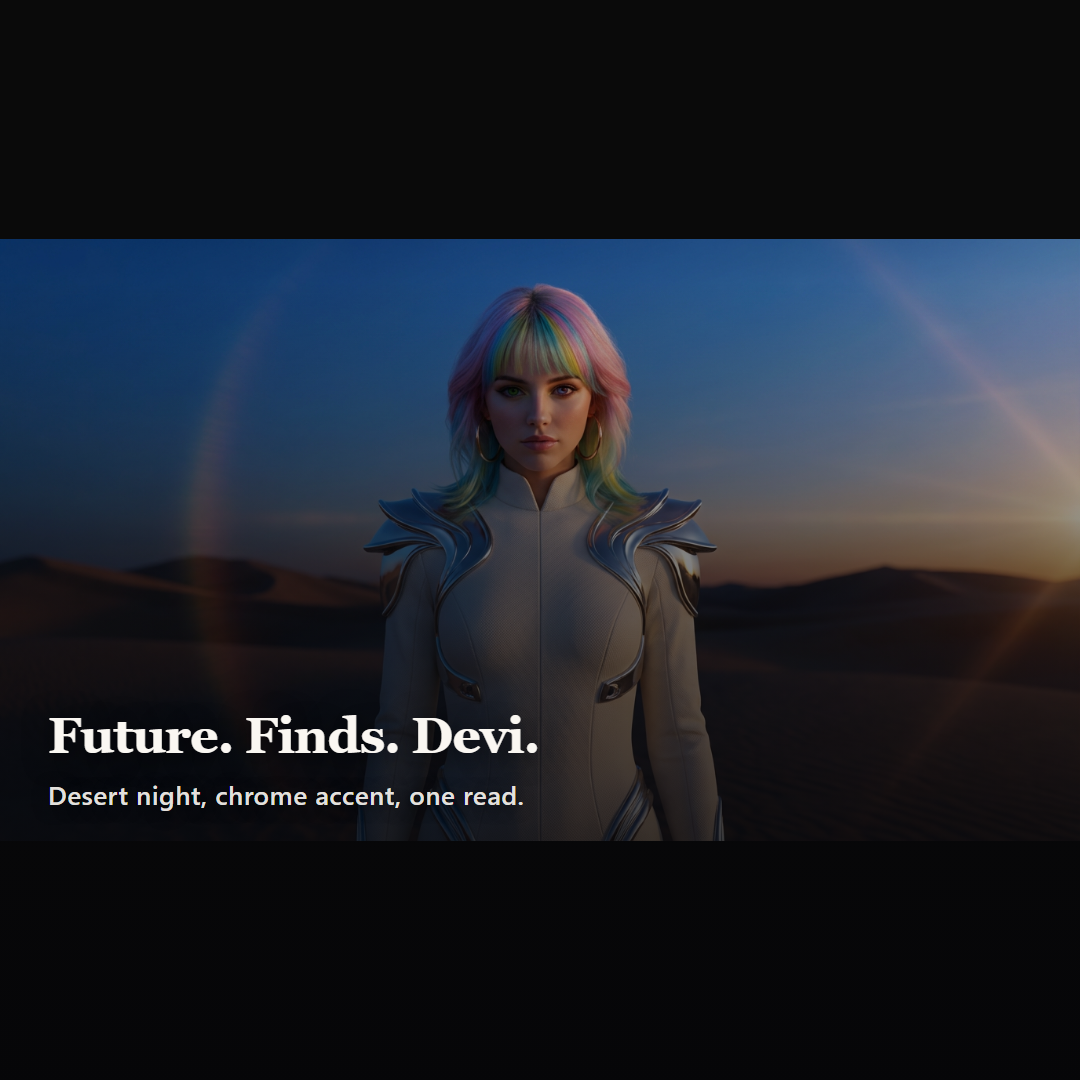
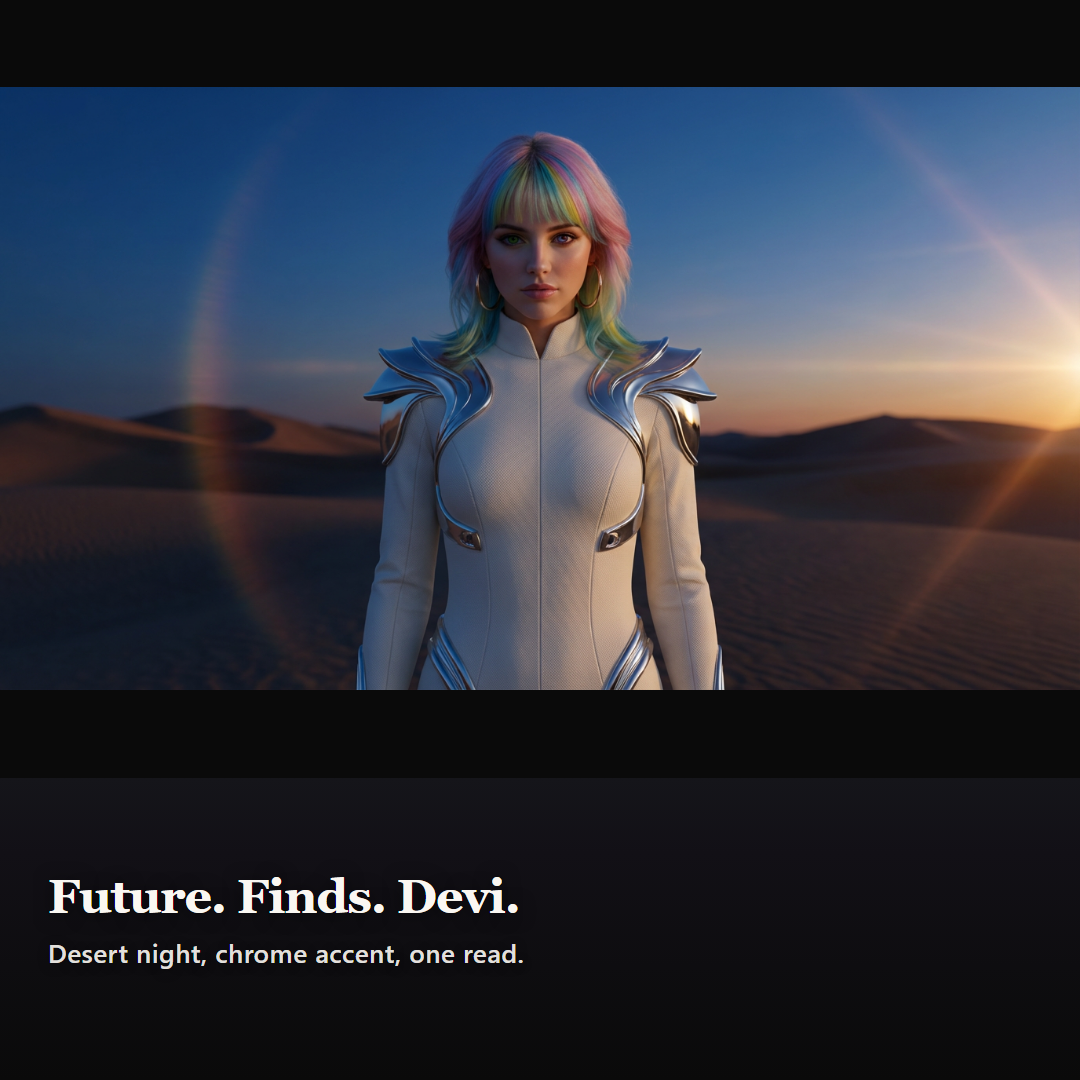
fix(devi-remotion): split image band + type strip so full photo fits (contain, no cover)
Made-with: Cursor

diff --git a/devi-remotion/src/DeviFeedImageCaptionSquare.tsx b/devi-remotion/src/DeviFeedImageCaptionSquare.tsx
@@ -14,11 +14,8 @@ export type DeviFeedImageCaptionSquareProps = {
 };
 
 /**
- * Feed still with full source frame (object-fit contain — no body crop) + editorial type.
- * Used for **1:1** (`DeviFeedImageCaptionSquare`) and **4:5** (`DeviFeedImageCaptionFeed4x5`) Stills.
- *
- * Copy is **not** flush to the frame edge: Buffer/IG often preview with a zoomed/cropped viewport;
- * we anchor type in a **safe band** (large inset from bottom/top).
+ * Feed still: photo **contained** in its band + type in a **separate** strip (no full-bleed overlap).
+ * Used for **1:1** and **4:5** Stills so the full image and all copy stay visible (“zoomed out” vs cover).
  */
 export const DeviFeedImageCaptionSquare: React.FC<
   DeviFeedImageCaptionSquareProps
@@ -27,86 +24,108 @@ export const DeviFeedImageCaptionSquare: React.FC<
   const isFeed45 = height === 1350;
   const isBottom = textZone === "bottom";
 
-  const bottomInset = isFeed45 ? 300 : 268;
-  const topInset = isFeed45 ? 216 : 172;
+  const imageFrac = isFeed45 ? 0.73 : 0.72;
+  const textFrac = 1 - imageFrac;
+
   const horizontalPad = isFeed45 ? 52 : 48;
-  const headlineSize = isFeed45 ? 56 : 50;
-  const sublineSize = isFeed45 ? 30 : 26;
-  const sublineMarginTop = isFeed45 ? 18 : 14;
+  const headlineSize = isFeed45 ? 52 : 48;
+  const sublineSize = isFeed45 ? 28 : 26;
+  const sublineMarginTop = isFeed45 ? 14 : 12;
 
-  return (
-    <AbsoluteFill style={{ backgroundColor: "#0A0A0A" }}>
-      <AbsoluteFill
-        style={{
-          display: "flex",
-          alignItems: "center",
-          justifyContent: "center",
-        }}
-      >
-        <Img
-          src={staticFile(imageFile)}
-          style={{
-            maxWidth: "100%",
-            maxHeight: "100%",
-            width: "100%",
-            height: "100%",
-            objectFit: "contain",
-            objectPosition: "50% 50%",
-          }}
-        />
-      </AbsoluteFill>
-
-      <AbsoluteFill
-        style={{
-          background: isBottom
-            ? "linear-gradient(to top, rgba(6,6,8,0.96) 0%, rgba(6,6,8,0.55) 46%, rgba(6,6,8,0) 74%)"
-            : "linear-gradient(to bottom, rgba(6,6,8,0.92) 0%, rgba(6,6,8,0.42) 44%, rgba(6,6,8,0) 72%)",
-          pointerEvents: "none",
-        }}
-      />
-
-      <AbsoluteFill style={{ pointerEvents: "none" }}>
+  const textStrip = (
+    <div
+      style={{
+        flex: `0 0 ${textFrac * 100}%`,
+        boxSizing: "border-box",
+        display: "flex",
+        flexDirection: "column",
+        justifyContent: "center",
+        paddingLeft: horizontalPad,
+        paddingRight: horizontalPad,
+        paddingTop: isBottom ? 16 : 28,
+        paddingBottom: isBottom ? 32 : 16,
+        background: isBottom
+          ? "linear-gradient(to top, #0A0A0A 0%, #121016 75%, #15151a 100%)"
+          : "linear-gradient(to bottom, #0A0A0A 0%, #121016 75%, #15151a 100%)",
+      }}
+    >
+      <div style={{ maxWidth: 984 }}>
         <div
           style={{
-            position: "absolute",
-            left: horizontalPad,
-            right: horizontalPad,
-            ...(isBottom
-              ? { bottom: bottomInset }
-              : { top: topInset }),
-            maxWidth: isFeed45 ? 980 : 984,
+            fontFamily: "Georgia, 'Times New Roman', serif",
+            fontWeight: 700,
+            fontSize: headlineSize,
+            lineHeight: 1.08,
+            letterSpacing: "-0.02em",
+            color: "#FAF7F2",
+            textShadow: "0 2px 18px rgba(0,0,0,0.55)",
           }}
         >
-          <div
-            style={{
-              fontFamily: "Georgia, 'Times New Roman', serif",
-              fontWeight: 700,
-              fontSize: headlineSize,
-              lineHeight: 1.08,
-              letterSpacing: "-0.02em",
-              color: "#FAF7F2",
-              textShadow: "0 4px 28px rgba(0,0,0,0.75)",
-            }}
-          >
-            {headline}
-          </div>
-          <div
-            style={{
-              marginTop: sublineMarginTop,
-              fontFamily:
-                "system-ui, 'Segoe UI', 'Helvetica Neue', Arial, sans-serif",
-              fontWeight: 500,
-              fontSize: sublineSize,
-              lineHeight: 1.35,
-              letterSpacing: "0.02em",
-              color: "rgba(250,247,242,0.92)",
-              textShadow: "0 2px 16px rgba(0,0,0,0.65)",
-            }}
-          >
-            {subline}
-          </div>
+          {headline}
         </div>
-      </AbsoluteFill>
+        <div
+          style={{
+            marginTop: sublineMarginTop,
+            fontFamily:
+              "system-ui, 'Segoe UI', 'Helvetica Neue', Arial, sans-serif",
+            fontWeight: 500,
+            fontSize: sublineSize,
+            lineHeight: 1.35,
+            letterSpacing: "0.02em",
+            color: "rgba(250,247,242,0.92)",
+            textShadow: "0 2px 12px rgba(0,0,0,0.45)",
+          }}
+        >
+          {subline}
+        </div>
+      </div>
+    </div>
+  );
+
+  const imageBand = (
+    <div
+      style={{
+        flex: `0 0 ${imageFrac * 100}%`,
+        minHeight: 0,
+        display: "flex",
+        alignItems: "center",
+        justifyContent: "center",
+        backgroundColor: "#0A0A0A",
+      }}
+    >
+      <Img
+        src={staticFile(imageFile)}
+        style={{
+          maxWidth: "100%",
+          maxHeight: "100%",
+          width: "100%",
+          height: "100%",
+          objectFit: "contain",
+          objectPosition: "50% 50%",
+        }}
+      />
+    </div>
+  );
+
+  return (
+    <AbsoluteFill
+      style={{
+        backgroundColor: "#0A0A0A",
+        display: "flex",
+        flexDirection: "column",
+      }}
+    >
+      {isBottom ? (
+        <>
+          {imageBand}
+          {textStrip}
+        </>
+      ) : (
+        <>
+          {textStrip}
+          {imageBand}
+        </>
+      )}
     </AbsoluteFill>
   );
 };

diff --git a/devi-remotion/src/DeviFeedImageCaption.tsx b/devi-remotion/src/DeviFeedImageCaption.tsx
@@ -12,9 +12,13 @@ export type DeviFeedImageCaptionProps = {
   textZone: "top" | "bottom";
 };
 
+/** Share of frame height for the photo (rest is a dedicated type strip — full image visible, no cover crop). */
+const IMAGE_FRAC_916 = 0.74;
+const TEXT_FRAC_916 = 1 - IMAGE_FRAC_916;
+
 /**
- * Instagram9:16 feed still: full-bleed image + editorial type (fashion-first, not meme UI).
- * Typography tuned for Devi: high-contrast scrim, serif headline, clean sans subline.
+ * Instagram 9:16 feed still: photo **contained** in its band + editorial type in a separate strip
+ * (not overlaid on full bleed) so the **entire** source image and all copy stay in frame.
  */
 export const DeviFeedImageCaption: React.FC<DeviFeedImageCaptionProps> = ({
   imageFile,
@@ -24,67 +28,100 @@ export const DeviFeedImageCaption: React.FC<DeviFeedImageCaptionProps> = ({
 }) => {
   const isBottom = textZone === "bottom";
 
-  return (
-    <AbsoluteFill style={{ backgroundColor: "#0A0A0A" }}>
+  const textStrip = (
+    <div
+      style={{
+        flex: `0 0 ${TEXT_FRAC_916 * 100}%`,
+        boxSizing: "border-box",
+        display: "flex",
+        flexDirection: "column",
+        justifyContent: "center",
+        paddingLeft: 56,
+        paddingRight: 56,
+        paddingTop: isBottom ? 20 : 36,
+        paddingBottom: isBottom ? 40 : 20,
+        background: isBottom
+          ? "linear-gradient(to top, #0A0A0A 0%, #121016 72%, #15151a 100%)"
+          : "linear-gradient(to bottom, #0A0A0A 0%, #121016 72%, #15151a 100%)",
+      }}
+    >
+      <div style={{ maxWidth: 920 }}>
+        <div
+          style={{
+            fontFamily: "Georgia, 'Times New Roman', serif",
+            fontWeight: 700,
+            fontSize: 62,
+            lineHeight: 1.08,
+            letterSpacing: "-0.02em",
+            color: "#FAF7F2",
+            textShadow: "0 2px 18px rgba(0,0,0,0.55)",
+          }}
+        >
+          {headline}
+        </div>
+        <div
+          style={{
+            marginTop: 18,
+            fontFamily:
+              "system-ui, 'Segoe UI', 'Helvetica Neue', Arial, sans-serif",
+            fontWeight: 500,
+            fontSize: 32,
+            lineHeight: 1.35,
+            letterSpacing: "0.02em",
+            color: "rgba(250,247,242,0.92)",
+            textShadow: "0 2px 12px rgba(0,0,0,0.45)",
+          }}
+        >
+          {subline}
+        </div>
+      </div>
+    </div>
+  );
+
+  const imageBand = (
+    <div
+      style={{
+        flex: `0 0 ${IMAGE_FRAC_916 * 100}%`,
+        minHeight: 0,
+        display: "flex",
+        alignItems: "center",
+        justifyContent: "center",
+        backgroundColor: "#0A0A0A",
+      }}
+    >
       <Img
         src={staticFile(imageFile)}
         style={{
+          maxWidth: "100%",
+          maxHeight: "100%",
           width: "100%",
           height: "100%",
-          objectFit: "cover",
+          objectFit: "contain",
+          objectPosition: "50% 50%",
         }}
       />
+    </div>
+  );
 
-      <AbsoluteFill
-        style={{
-          background: isBottom
-            ? "linear-gradient(to top, rgba(6,6,8,0.92) 0%, rgba(6,6,8,0.45) 38%, rgba(6,6,8,0) 58%)"
-            : "linear-gradient(to bottom, rgba(6,6,8,0.88) 0%, rgba(6,6,8,0.35) 42%, rgba(6,6,8,0) 62%)",
-          pointerEvents: "none",
-        }}
-      />
-
-      <AbsoluteFill
-        style={{
-          justifyContent: isBottom ? "flex-end" : "flex-start",
-          /* Extra bottom padding: IG/FB crop players and in-app chrome eat the lower edge; feed 4:5 crops must anchor bottom — still keep type off the true frame edge. */
-          paddingTop: isBottom ? 0 : 96,
-          paddingBottom: isBottom ? 168 : 0,
-          paddingLeft: 64,
-          paddingRight: 64,
-        }}
-      >
-        <div style={{ maxWidth: 920 }}>
-          <div
-            style={{
-              fontFamily: "Georgia, 'Times New Roman', serif",
-              fontWeight: 700,
-              fontSize: 68,
-              lineHeight: 1.08,
-              letterSpacing: "-0.02em",
-              color: "#FAF7F2",
-              textShadow: "0 4px 28px rgba(0,0,0,0.75)",
-            }}
-          >
-            {headline}
-          </div>
-                   <div
-            style={{
-              marginTop: 22,
-              fontFamily:
-                "system-ui, 'Segoe UI', 'Helvetica Neue', Arial, sans-serif",
-              fontWeight: 500,
-              fontSize: 34,
-              lineHeight: 1.35,
-              letterSpacing: "0.02em",
-              color: "rgba(250,247,242,0.92)",
-              textShadow: "0 2px 16px rgba(0,0,0,0.65)",
-            }}
-          >
-            {subline}
-          </div>
-        </div>
-      </AbsoluteFill>
+  return (
+    <AbsoluteFill
+      style={{
+        backgroundColor: "#0A0A0A",
+        display: "flex",
+        flexDirection: "column",
+      }}
+    >
+      {isBottom ? (
+        <>
+          {imageBand}
+          {textStrip}
+        </>
+      ) : (
+        <>
+          {textStrip}
+          {imageBand}
+        </>
+      )}
     </AbsoluteFill>
   );
 };
